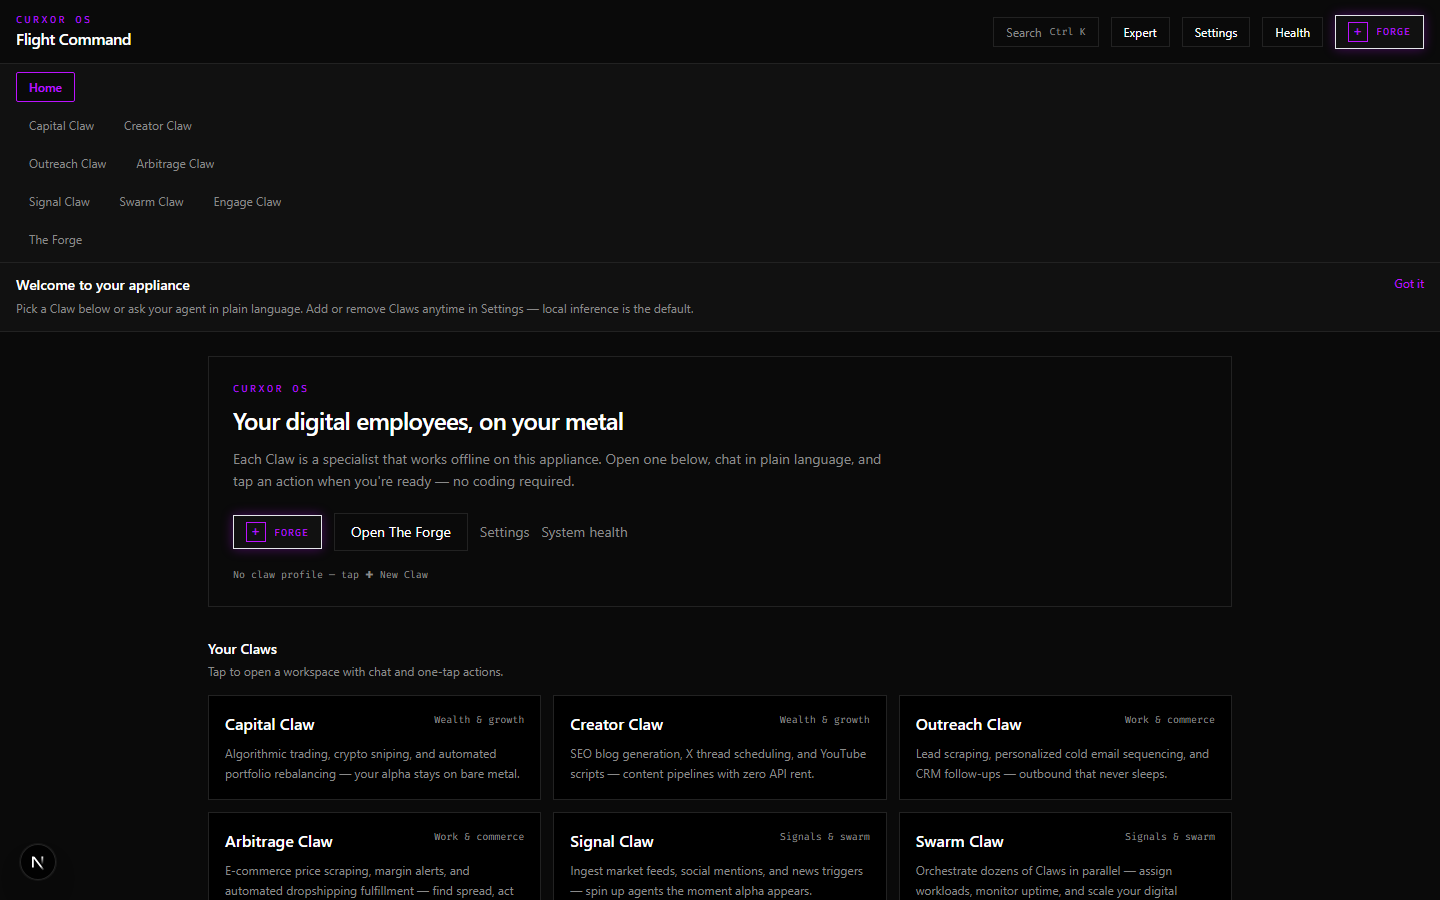
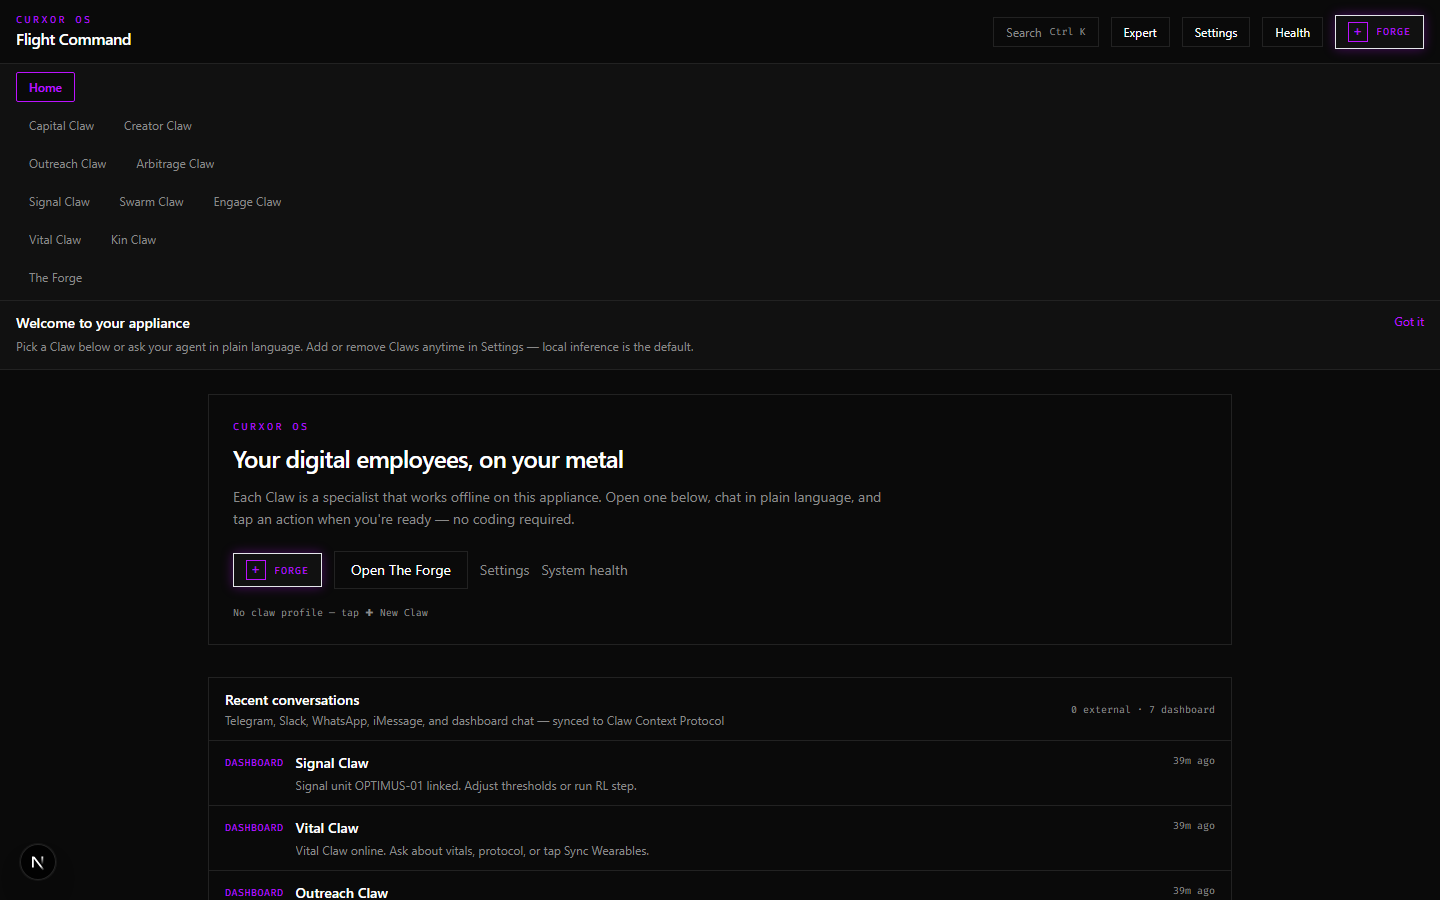
Add unified inbox demo capture and document CURXOR_CHANNELS_PATH.

diff --git a/docs/demo-pack/README.md b/docs/demo-pack/README.md
@@ -1,81 +1,84 @@
-# Flight Command demo pack
-
-Screenshots and copy for storefront, pitch deck, and investor collateral.
-
-## Capture screenshots
-
-1. Start the dashboard with dev-qa seed data (PowerShell):
-
-```powershell
-cd pillar-4-dashboard
-$env:CURXOR_FRE_STATE_PATH="$PWD\scripts\dev-qa\fre-state.json"
-$env:CURXOR_USER_SETTINGS_PATH="$PWD\scripts\dev-qa\user-settings.json"
-$env:CURXOR_APP_FRE_DIR="$PWD\scripts\dev-qa\app-fre"
-npm run dev
-```
-
-Bash equivalent:
-
-```bash
-cd pillar-4-dashboard
-export CURXOR_FRE_STATE_PATH=$PWD/scripts/dev-qa/fre-state.json
-export CURXOR_USER_SETTINGS_PATH=$PWD/scripts/dev-qa/user-settings.json
-export CURXOR_APP_FRE_DIR=$PWD/scripts/dev-qa/app-fre
-npm run dev
-```
-
-2. Install Playwright Chromium (first time only):
-
-```bash
-npx playwright install chromium
-```
-
-3. Capture all routes:
-
-```bash
-node scripts/capture-demo-screenshots.mjs
-# or: node scripts/capture-demo-screenshots.mjs --base http://127.0.0.1:3080
-```
-
-Single route (waits for page text, 6s settle after load):
-
-```bash
-node scripts/capture-one-demo.mjs /my-vital 05-vital-claw.png "Longevity protocol desk"
-node scripts/capture-one-demo.mjs /my-family 06-kin-claw.png "Household context hub"
-```
-
-Output: `docs/demo-pack/screenshots/`
-
-| File | Route | Use |
-|------|-------|-----|
-| `01-home.png` | `/home` | Landing hero, day-one story |
-| `02-settings.png` | `/settings` | User freedom — Claws, intelligence, appearance |
-| `03-capital-claw.png` | `/my-capital` | Wealth Claw workspace |
-| `04-forge.png` | `/claw-forge` | Create-to-earn |
-| `05-vital-claw.png` | `/my-vital` | Life & family — longevity desk |
-| `06-kin-claw.png` | `/my-family` | Life & family — household profiles |
-
-Copy these into `curxor storefront/public/demo/` when updating GTM assets.
-
-## Troubleshooting
-
-| Symptom | Fix |
-|---------|-----|
-| `/my-vital` shows Home hub | Sync `selectedApps` in `scripts/dev-qa/user-settings.json` with `fre-state.json` — middleware and `DesktopRouteGuard` read different files |
-| Page stuck on "Loading … Claw" | Wait for Next.js compile to finish; do not capture during hot reload |
-| Blank or tiny PNG (~7KB) | Stop dev server, delete `pillar-4-dashboard/.next`, restart with env vars above |
-| Playwright timeout on `networkidle` | Do not use `networkidle` — SSE streams on `/api/stream/*` never idle. Use `capture-one-demo.mjs` (domcontentloaded + wait) |
-| Redirect to `/setup` | Ensure `fre-state.json` has `"initialized": true` and `/api/setup/status` returns 200 before capture |
-
-## PDF documentation
-
-From repo root (Linux/WSL with pandoc):
-
-```bash
-./docs/scripts/export-guides-pdf.sh
-# Release bundle:
-./docs/scripts/export-guides-pdf.sh --release
-```
-
-Output: `docs/pdf/`
-
+# Flight Command demo pack
+
+Screenshots and copy for storefront, pitch deck, and investor collateral.
+
+## Capture screenshots
+
+1. Start the dashboard with dev-qa seed data (PowerShell):
+
+```powershell
+cd pillar-4-dashboard
+$env:CURXOR_FRE_STATE_PATH="$PWD\scripts\dev-qa\fre-state.json"
+$env:CURXOR_USER_SETTINGS_PATH="$PWD\scripts\dev-qa\user-settings.json"
+$env:CURXOR_APP_FRE_DIR="$PWD\scripts\dev-qa\app-fre"
+$env:CURXOR_CHANNELS_PATH="$PWD\scripts\dev-qa\channels"
+npm run dev
+```
+
+Bash equivalent:
+
+```bash
+cd pillar-4-dashboard
+export CURXOR_FRE_STATE_PATH=$PWD/scripts/dev-qa/fre-state.json
+export CURXOR_USER_SETTINGS_PATH=$PWD/scripts/dev-qa/user-settings.json
+export CURXOR_APP_FRE_DIR=$PWD/scripts/dev-qa/app-fre
+export CURXOR_CHANNELS_PATH=$PWD/scripts/dev-qa/channels
+npm run dev
+```
+
+2. Install Playwright Chromium (first time only):
+
+```bash
+npx playwright install chromium
+```
+
+3. Capture all routes:
+
+```bash
+node scripts/capture-demo-screenshots.mjs
+# or: node scripts/capture-demo-screenshots.mjs --base http://127.0.0.1:3080
+```
+
+Single route (waits for page text, 6s settle after load):
+
+```bash
+node scripts/capture-one-demo.mjs /my-work 07-unified-inbox.png "Comms desk"
+node scripts/capture-one-demo.mjs /home 01-home.png "Recent conversations"
+```
+
+Output: `docs/demo-pack/screenshots/`
+
+| File | Route | Use |
+|------|-------|-----|
+| `01-home.png` | `/home` | Landing hero, day-one story (includes recent conversations) |
+| `02-settings.png` | `/settings` | User freedom — Claws, intelligence, appearance |
+| `03-capital-claw.png` | `/my-capital` | Wealth Claw workspace |
+| `04-forge.png` | `/claw-forge` | Create-to-earn |
+| `05-vital-claw.png` | `/my-vital` | Life & family — longevity desk |
+| `06-kin-claw.png` | `/my-family` | Life & family — household profiles |
+| `07-unified-inbox.png` | `/my-work` | Unified comms — Outreach Claw comms desk |
+
+Copy these into `curxor storefront/public/demo/` when updating GTM assets.
+
+## Troubleshooting
+
+| Symptom | Fix |
+|---------|-----|
+| `/my-vital` shows Home hub | Sync `selectedApps` in `scripts/dev-qa/user-settings.json` with `fre-state.json` — middleware and `DesktopRouteGuard` read different files |
+| Unified inbox empty | Set `CURXOR_CHANNELS_PATH` to `scripts/dev-qa/channels` and ensure `config.json` has `"enabled": true` |
+| Page stuck on "Loading … Claw" | Wait for Next.js compile to finish; do not capture during hot reload |
+| Blank or tiny PNG (~7KB) | Stop dev server, delete `pillar-4-dashboard/.next`, restart with env vars above |
+| Playwright timeout on `networkidle` | Do not use `networkidle` — SSE streams on `/api/stream/*` never idle. Use `capture-one-demo.mjs` (domcontentloaded + wait) |
+| Redirect to `/setup` | Ensure `fre-state.json` has `"initialized": true` and `/api/setup/status` returns 200 before capture |
+
+## PDF documentation
+
+From repo root (Linux/WSL with pandoc):
+
+```bash
+./docs/scripts/export-guides-pdf.sh
+# Release bundle:
+./docs/scripts/export-guides-pdf.sh --release
+```
+
+Output: `docs/pdf/`